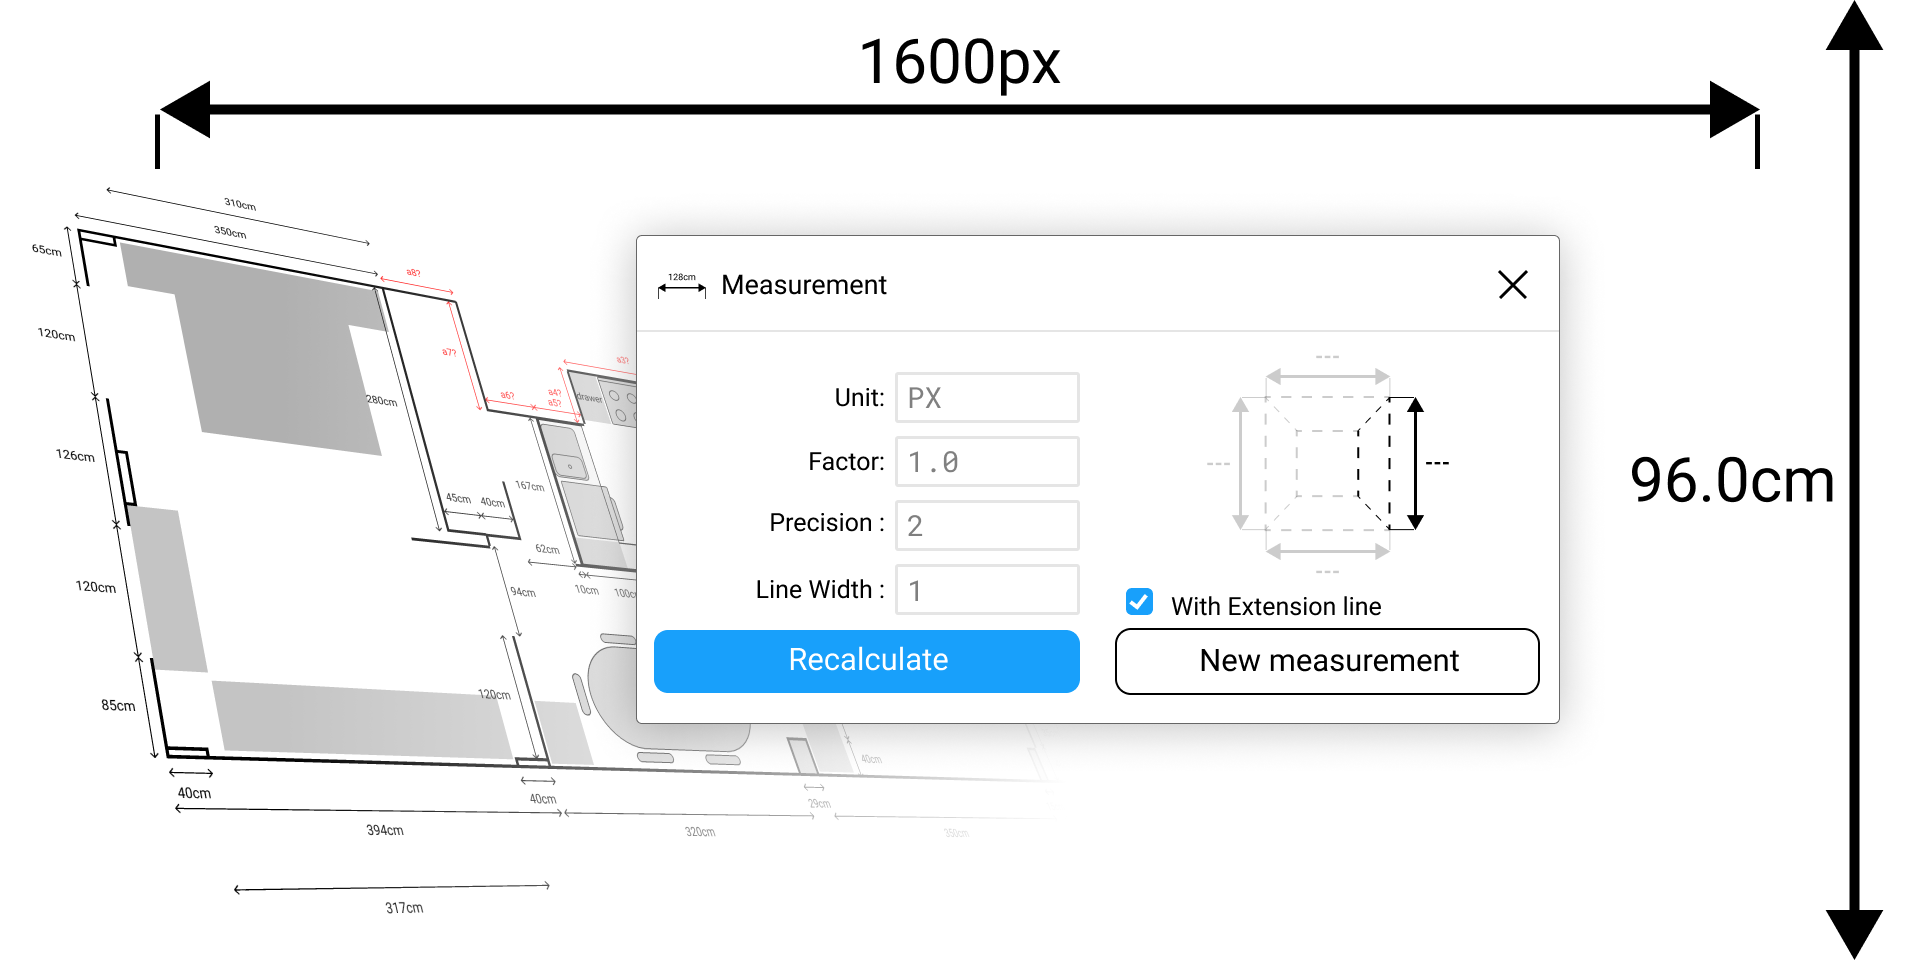
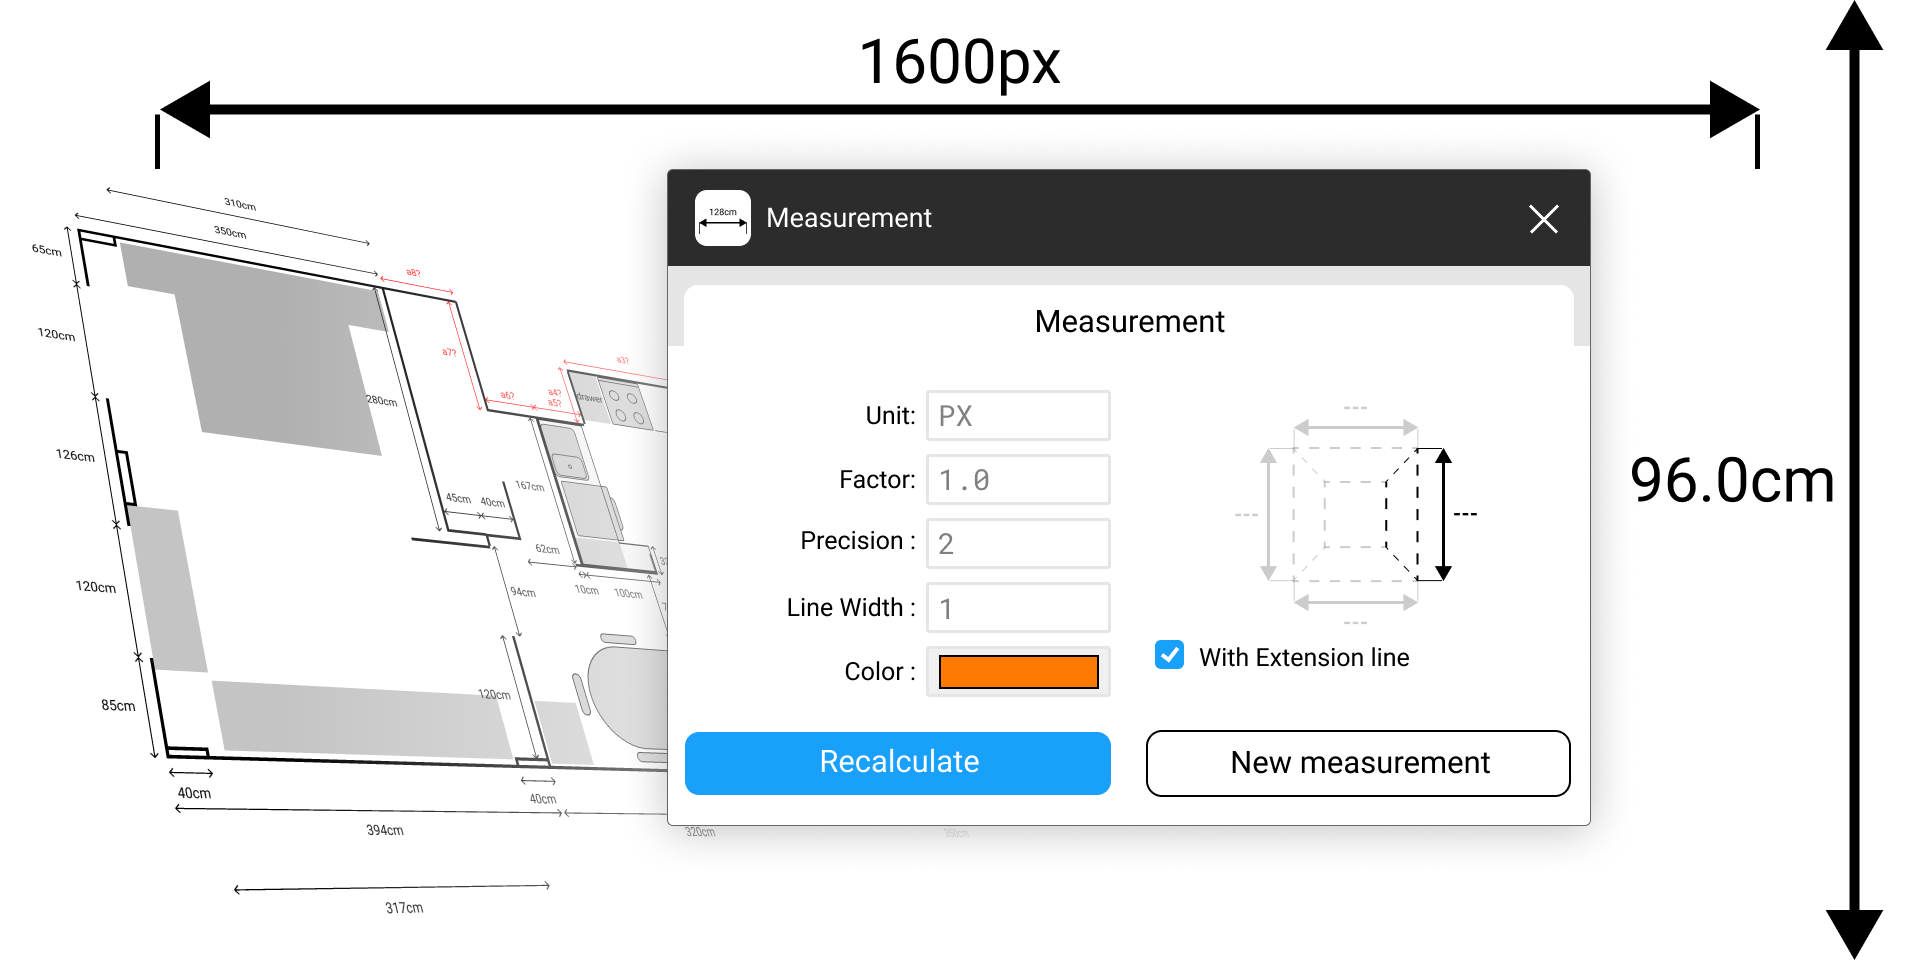
fix unintended recalc of non measuremnt elements

Changed region(s): [[0.3125, 0.1562, 0.8438, 0.875], [0.6562, 0.375, 0.7188, 0.4062]]

diff --git a/code.ts b/code.ts
@@ -35,70 +35,67 @@ const saveSettings = async (msg) => {
   );
 };
 
-
-const recalculate = async(msg)=>{
-  figma.currentPage.selection.map( (selectionNode: any) => {
+const recalculate = async (msg) => {
+  figma.currentPage.selection.map((selectionNode: any) => {
     const color = figma.util.solidPaint(msg.lineColor);
 
-    selectionNode.children.filter(async(node) => {
-      
-      if(node.type === "TEXT"){
-        // @ts-ignore
-        await figma.loadFontAsync(node.fontName);
+    if (selectionNode.type === "FRAME" && selectionNode.name.includes("->")) {
+      selectionNode.children.filter(async (node) => {
+        if (node.type === "TEXT") {
+          // @ts-ignore
+          await figma.loadFontAsync(node.fontName);
 
-        node.fills = [color];
+          node.fills = [color];
 
-        if (node) {
+          if (node) {
+            console.log(selectionNode.width, selectionNode.height);
+            const updatedText =
+              Number(selectionNode.width * Number(msg.factor))
+                .toFixed(Number(msg.precision))
+                .toString() + msg.unit;
 
-          console.log(selectionNode.width, selectionNode.height)
-          const updatedText = 
-          Number(selectionNode.width * Number(msg.factor))
-            .toFixed(Number(msg.precision))
-            .toString() + msg.unit;
-          
-          node.autoRename = true;
-          
-          node.deleteCharacters(0, node.characters.length);
-          node.insertCharacters(
-            node.characters.length,
-            updatedText,
-            "BEFORE"
-          );
-          node.characters = updatedText;
+            node.autoRename = true;
 
-          const textName = "<-" +
-          Number(selectionNode.width * Number(msg.factor))
-            .toFixed(Number(msg.precision))
-            .toString() +
-          msg.unit +
-          "->";
+            node.deleteCharacters(0, node.characters.length);
+            node.insertCharacters(
+              node.characters.length,
+              updatedText,
+              "BEFORE"
+            );
+            node.characters = updatedText;
 
-          node.name =textName
-          selectionNode.name =textName
-        }
-      } else {
-        if (node) {
-          node.children.filter(async(dimNode) => {
+            const textName =
+              "<-" +
+              Number(selectionNode.width * Number(msg.factor))
+                .toFixed(Number(msg.precision))
+                .toString() +
+              msg.unit +
+              "->";
+
+            node.name = textName;
+            selectionNode.name = textName;
+          }
+        } else {
+          node?.children.filter(async (dimNode) => {
             dimNode.strokes = [color];
-            dimNode.strokeWeight = Number(msg.lineWidth)
+            dimNode.strokeWeight = Number(msg.lineWidth);
 
-            if(dimNode.name.includes('ExtensionLine_')){
-              if(msg.withExtensionLine){
-                dimNode.opacity = 1
-              }else{
-                dimNode.opacity = 0
+            if (dimNode.name.includes("ExtensionLine_")) {
+              if (msg.withExtensionLine) {
+                dimNode.opacity = 1;
+              } else {
+                dimNode.opacity = 0;
               }
-            } else {
             }
           });
         }
-      }
-    });
+      });
+    }
   });
 
   // update localstorage
   saveSettings(msg);
-}
+};
 
 const createLine = async (msg) => {
   const measurement = figma.createFrame();
@@ -147,13 +144,13 @@ const createLine = async (msg) => {
   dimensionLine.strokeWeight = Number(msg.lineWidth);
 
   const color = figma.util.solidPaint(msg.lineColor);
-  
+
   // Add line color
   dimensionLine.strokes = [color];
 
   extensionLine_1.strokeWeight = Number(msg.lineWidth);
   extensionLine_2.strokeWeight = Number(msg.lineWidth);
-  
+
   extensionLine_1.strokes = [color];
   extensionLine_2.strokes = [color];
 
@@ -172,85 +169,69 @@ const createLine = async (msg) => {
 
   measurement.resize(100, 41);
   measurement.itemSpacing = 8;
-  
-  if(msg.selectedID == 'left-line'){
+
+  if (msg.selectedID == "left-line") {
     measurement.rotation = 90;
     dimensionText.rotation = -90;
     measurement.resize(100, 60);
-  }
-  else if(msg.selectedID == 'right-line'){
+  } else if (msg.selectedID == "right-line") {
     measurement.rotation = -90;
     dimensionText.rotation = 90;
     measurement.resize(100, 60);
-  }
-  else if(msg.selectedID == 'bottom-line'){
+  } else if (msg.selectedID == "bottom-line") {
     measurement.rotation = 180;
     dimensionText.rotation = 180;
   }
-  
+
   measurement.x = figma.viewport.center.x - measurement.width / 2;
   measurement.y = figma.viewport.center.y - measurement.height / 2;
 
-  
   figma.currentPage.selection.map(async (node: any) => {
     // @ts-ignore
     await figma.loadFontAsync(dimensionText.fontName);
     dimensionText.fills = [color];
 
     const widthCalc = Number(node.width * Number(msg.factor))
-    .toFixed(Number(msg.precision))
-    .toString();
+      .toFixed(Number(msg.precision))
+      .toString();
 
     const heightCalc = Number(node.height * Number(msg.factor))
-    .toFixed(Number(msg.precision))
-    .toString();
+      .toFixed(Number(msg.precision))
+      .toString();
 
     const unit = msg.unit;
 
-    if(msg.selectedID == 'left-line'){
+    if (msg.selectedID == "left-line") {
       measurement.resize(node.height, 78);
       measurement.x = node.x - measurement.height;
       measurement.y = node.y + node.height;
 
-      measurement.name = "<-"+
-      heightCalc
-      + unit + "->";
+      measurement.name = "<-" + heightCalc + unit + "->";
       await dimensionText.insertCharacters(0, heightCalc + unit);
-
-    } else if(msg.selectedID == 'right-line'){
+    } else if (msg.selectedID == "right-line") {
       measurement.resize(node.height, 78);
-      measurement.x = node.x + node.width + (measurement.height);
+      measurement.x = node.x + node.width + measurement.height;
       measurement.y = node.y;
 
-      measurement.name = "<-"+
-      heightCalc
-      + unit + "->";
+      measurement.name = "<-" + heightCalc + unit + "->";
       await dimensionText.insertCharacters(0, heightCalc + unit);
-
-    } else if(msg.selectedID == 'bottom-line'){
+    } else if (msg.selectedID == "bottom-line") {
       measurement.resize(node.width, 60);
       measurement.x = node.x + node.width;
-      measurement.y = node.y + node.height + (measurement.height);
+      measurement.y = node.y + node.height + measurement.height;
 
-      measurement.name = "<-"+
-      widthCalc
-        + unit + "->";
+      measurement.name = "<-" + widthCalc + unit + "->";
       await dimensionText.insertCharacters(0, widthCalc + unit);
-      
-    } else if(msg.selectedID == 'top-line'){
+    } else if (msg.selectedID == "top-line") {
       measurement.resize(node.width, 60);
       measurement.x = node.x;
       measurement.y = node.y - measurement.height;
 
-      measurement.name = "<-"+
-      widthCalc
-       + unit + "->";
+      measurement.name = "<-" + widthCalc + unit + "->";
       await dimensionText.insertCharacters(0, widthCalc + unit);
-
     }
   });
 
-  
   measurement.layoutMode = "VERTICAL";
 
   recalculate(msg);

diff --git a/code.js b/code.js
@@ -34,36 +34,36 @@ const saveSettings = (msg) => __awaiter(this, void 0, void 0, function* () {
 const recalculate = (msg) => __awaiter(this, void 0, void 0, function* () {
     figma.currentPage.selection.map((selectionNode) => {
         const color = figma.util.solidPaint(msg.lineColor);
-        selectionNode.children.filter((node) => __awaiter(this, void 0, void 0, function* () {
-            if (node.type === "TEXT") {
-                // @ts-ignore
-                yield figma.loadFontAsync(node.fontName);
-                node.fills = [color];
-                if (node) {
-                    console.log(selectionNode.width, selectionNode.height);
-                    const updatedText = Number(selectionNode.width * Number(msg.factor))
-                        .toFixed(Number(msg.precision))
-                        .toString() + msg.unit;
-                    node.autoRename = true;
-                    node.deleteCharacters(0, node.characters.length);
-                    node.insertCharacters(node.characters.length, updatedText, "BEFORE");
-                    node.characters = updatedText;
-                    const textName = "<-" +
-                        Number(selectionNode.width * Number(msg.factor))
+        if (selectionNode.type === "FRAME" && selectionNode.name.includes("->")) {
+            selectionNode.children.filter((node) => __awaiter(this, void 0, void 0, function* () {
+                if (node.type === "TEXT") {
+                    // @ts-ignore
+                    yield figma.loadFontAsync(node.fontName);
+                    node.fills = [color];
+                    if (node) {
+                        console.log(selectionNode.width, selectionNode.height);
+                        const updatedText = Number(selectionNode.width * Number(msg.factor))
                             .toFixed(Number(msg.precision))
-                            .toString() +
-                        msg.unit +
-                        "->";
-                    node.name = textName;
-                    selectionNode.name = textName;
+                            .toString() + msg.unit;
+                        node.autoRename = true;
+                        node.deleteCharacters(0, node.characters.length);
+                        node.insertCharacters(node.characters.length, updatedText, "BEFORE");
+                        node.characters = updatedText;
+                        const textName = "<-" +
+                            Number(selectionNode.width * Number(msg.factor))
+                                .toFixed(Number(msg.precision))
+                                .toString() +
+                            msg.unit +
+                            "->";
+                        node.name = textName;
+                        selectionNode.name = textName;
+                    }
                 }
-            }
-            else {
-                if (node) {
-                    node.children.filter((dimNode) => __awaiter(this, void 0, void 0, function* () {
+                else {
+                    node === null || node === void 0 ? void 0 : node.children.filter((dimNode) => __awaiter(this, void 0, void 0, function* () {
                         dimNode.strokes = [color];
                         dimNode.strokeWeight = Number(msg.lineWidth);
-                        if (dimNode.name.includes('ExtensionLine_')) {
+                        if (dimNode.name.includes("ExtensionLine_")) {
                             if (msg.withExtensionLine) {
                                 dimNode.opacity = 1;
                             }
@@ -71,12 +71,10 @@ const recalculate = (msg) => __awaiter(this, void 0, void 0, function* () {
                                 dimNode.opacity = 0;
                             }
                         }
-                        else {
-                        }
                     }));
                 }
-            }
-        }));
+            }));
+        }
     });
     // update localstorage
     saveSettings(msg);
@@ -139,17 +137,17 @@ const createLine = (msg) => __awaiter(this, void 0, void 0, function* () {
     }
     measurement.resize(100, 41);
     measurement.itemSpacing = 8;
-    if (msg.selectedID == 'left-line') {
+    if (msg.selectedID == "left-line") {
         measurement.rotation = 90;
         dimensionText.rotation = -90;
         measurement.resize(100, 60);
     }
-    else if (msg.selectedID == 'right-line') {
+    else if (msg.selectedID == "right-line") {
         measurement.rotation = -90;
         dimensionText.rotation = 90;
         measurement.resize(100, 60);
     }
-    else if (msg.selectedID == 'bottom-line') {
+    else if (msg.selectedID == "bottom-line") {
         measurement.rotation = 180;
         dimensionText.rotation = 180;
     }
@@ -166,40 +164,32 @@ const createLine = (msg) => __awaiter(this, void 0, void 0, function* () {
             .toFixed(Number(msg.precision))
             .toString();
         const unit = msg.unit;
-        if (msg.selectedID == 'left-line') {
+        if (msg.selectedID == "left-line") {
             measurement.resize(node.height, 78);
             measurement.x = node.x - measurement.height;
             measurement.y = node.y + node.height;
-            measurement.name = "<-" +
-                heightCalc
-                + unit + "->";
+            measurement.name = "<-" + heightCalc + unit + "->";
             yield dimensionText.insertCharacters(0, heightCalc + unit);
         }
-        else if (msg.selectedID == 'right-line') {
+        else if (msg.selectedID == "right-line") {
             measurement.resize(node.height, 78);
-            measurement.x = node.x + node.width + (measurement.height);
+            measurement.x = node.x + node.width + measurement.height;
             measurement.y = node.y;
-            measurement.name = "<-" +
-                heightCalc
-                + unit + "->";
+            measurement.name = "<-" + heightCalc + unit + "->";
             yield dimensionText.insertCharacters(0, heightCalc + unit);
         }
-        else if (msg.selectedID == 'bottom-line') {
+        else if (msg.selectedID == "bottom-line") {
             measurement.resize(node.width, 60);
             measurement.x = node.x + node.width;
-            measurement.y = node.y + node.height + (measurement.height);
-            measurement.name = "<-" +
-                widthCalc
-                + unit + "->";
+            measurement.y = node.y + node.height + measurement.height;
+            measurement.name = "<-" + widthCalc + unit + "->";
             yield dimensionText.insertCharacters(0, widthCalc + unit);
         }
-        else if (msg.selectedID == 'top-line') {
+        else if (msg.selectedID == "top-line") {
             measurement.resize(node.width, 60);
             measurement.x = node.x;
             measurement.y = node.y - measurement.height;
-            measurement.name = "<-" +
-                widthCalc
-                + unit + "->";
+            measurement.name = "<-" + widthCalc + unit + "->";
             yield dimensionText.insertCharacters(0, widthCalc + unit);
         }
     }));
